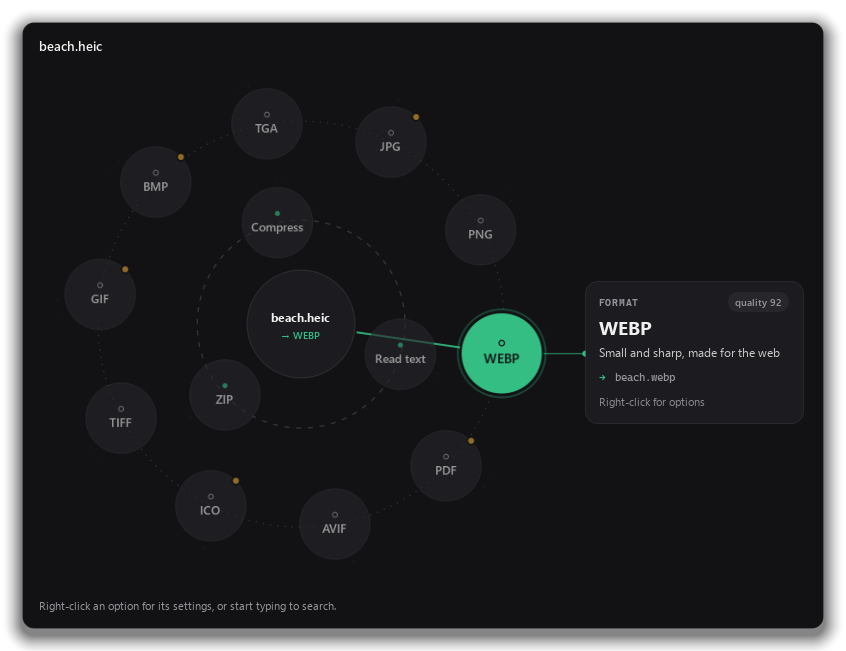
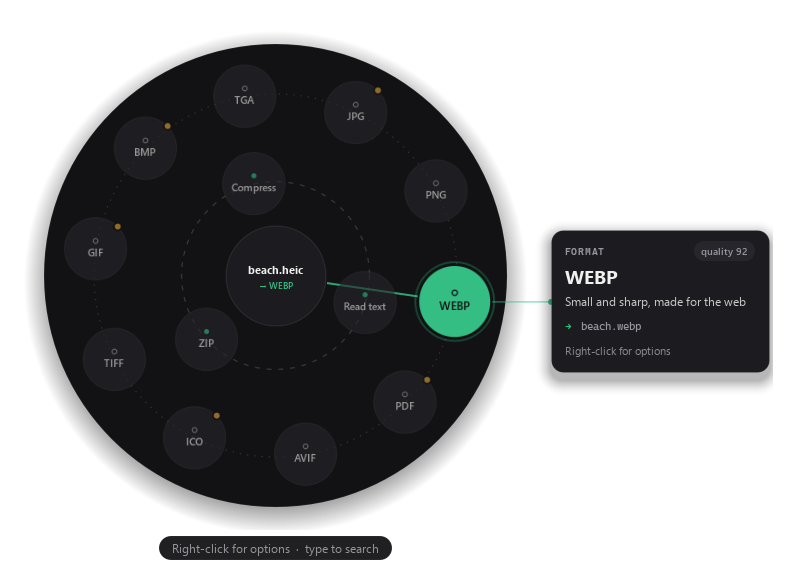
Tapshift 1.2.1: Orbit floats on its own disc
- No more dark box around the picker: on the orbit page the card frame,
  title and hint are hidden; the orbit paints its own round disc with a soft
  shadow and floats over the desktop. The side card (with a smooth shadow)
  appears only while pointing at an option. List and options keep the card.
- ~10% more compact; file name in the hub; notes in a pill under the disc
- All base images drawn on show, before the window is visible: worst frame
  11.7 ms on open, 0% CPU at rest (measured on screen under the 25% cap)

diff --git a/app/ui/orbit.py b/app/ui/orbit.py
@@ -233,16 +233,18 @@ class OrbitView(QWidget):
     DRIFT_SECONDS = 6.0
 
     def __init__(self, offers: list[Offer], center_title: str, card_side: str = "right", scale: float = 1.0,
-                 parent=None):
+                 note: str = "", parent=None):
         super().__init__(parent)
         self.setMouseTracking(True)
         self.setFocusPolicy(Qt.FocusPolicy.StrongFocus)
-        self.setAttribute(Qt.WidgetAttribute.WA_OpaquePaintEvent)  # we paint every pixel: parents can skip
+        # No background: the orbit floats over the desktop on its own disc.
+        self.setAttribute(Qt.WidgetAttribute.WA_TranslucentBackground)
         self.motion = animations_enabled()
         self.center_title = center_title
+        self.note = note or "Right-click for options  ·  type to search"
         self.side = card_side
         k = scale
-        self.D, self.HUB, self.GAP = 72 * k, 108 * k, 14 * k
+        self.D, self.HUB, self.GAP = 64 * k, 100 * k, 12 * k
         self.CARD_W, self.CARD_GAP = round(218 * k + 10 * (1 - k)), round(22 * k)
         self._layout(list(offers))
         self.hover = -1
@@ -254,6 +256,9 @@ class OrbitView(QWidget):
         self.speed = Spring(1.0 if self.motion else 0.0)
         self.ring_a = Spring(0.0)
         self.hub_s = Spring(0.75)
+        self.disc_s = Spring(0.9)
+        self._disc_pix: QPixmap | None = None
+        self._note_pix: QPixmap | None = None
         # side card
         self.card_a, self.card_y, self.card_dx = Spring(0), Spring(0), Spring(0)
         self.card_pix: QPixmap | None = None
@@ -315,10 +320,12 @@ class OrbitView(QWidget):
                 self.ps.append(_Planet(ri, base, 0.03 + order * 0.028))
                 order += 1
         self.hidden_count = len(offers) - sum(1 for o in self.items if o is not None)
-        self.E = self.radii[-1] + D * 0.6 + 16  # orbit half-size, with room for hover scale and the magnet
+        self.DR = self.radii[-1] + D / 2 + 18  # the disc everything sits on
+        self.E = self.DR + 22  # half-size of the orbit area: disc plus room for its shadow
         S = 2 * self.E
+        self.NOTE_H = 34
         self.ox = (self.CARD_W + self.CARD_GAP) if self.side == "left" else 0
-        self.setFixedSize(QSize(int(S + self.CARD_GAP + self.CARD_W) + 4, int(S)))
+        self.setFixedSize(QSize(int(S + self.CARD_GAP + self.CARD_W) + 4, int(S + self.NOTE_H)))
 
     def orbit_center(self) -> QPointF:
         return QPointF(self.ox + self.E, self.E)
@@ -332,6 +339,9 @@ class OrbitView(QWidget):
             self._hub_pix.clear()
             self._cards.clear()
             self._rings_pix = None
+            self._disc_pix = None
+            self._note_pix = None
+            self.__dict__.pop("_card_shadows", None)
         return dpr
 
     def _new_pix(self, w: float, h: float) -> QPixmap:
@@ -456,6 +466,72 @@ class OrbitView(QWidget):
         p.drawText(QPointF(c.x() - fm.horizontalAdvance(sub) / 2, c.y() + 15 * k), sub)
         p.end()
         self._hub_pix[self.hover] = pm
+        return pm
+
+    def _disc_pixmap(self) -> QPixmap:
+        """Soft shadow, the disc and both orbits, drawn once."""
+        if self._disc_pix is not None:
+            return self._disc_pix
+        from PySide6.QtGui import QRadialGradient
+
+        S = 2 * self.E
+        pm = self._new_pix(S, S)
+        p = self._painter(pm)
+        c = QPointF(self.E, self.E)
+        R = self.DR
+        g = QRadialGradient(QPointF(c.x(), c.y() + 7), R + 20)
+        edge = R / (R + 20)
+        g.setColorAt(0.0, _alpha(theme.SHADOW, theme.SHADOW.alphaF() * 0.9))
+        g.setColorAt(edge * 0.94, _alpha(theme.SHADOW, theme.SHADOW.alphaF() * 0.8))
+        g.setColorAt(1.0, _alpha(theme.SHADOW, 0.0))
+        p.setPen(Qt.PenStyle.NoPen)
+        p.setBrush(g)
+        p.drawEllipse(QPointF(c.x(), c.y() + 7), R + 20, R + 20)
+        p.setPen(QPen(theme.LINE, 1.2))
+        p.setBrush(theme.BG)
+        p.drawEllipse(c, R, R)
+        p.drawPixmap(QPointF(0, 0), self._rings_pixmap())
+        p.end()
+        self._disc_pix = pm
+        return pm
+
+    def _card_shadow(self, w: float, h: float) -> QPixmap:
+        """A smooth soft shadow for the side card (many faint layers, drawn once per size)."""
+        key = (round(w), round(h))
+        cache = self.__dict__.setdefault("_card_shadows", {})
+        pm = cache.get(key)
+        if pm is not None:
+            return pm
+        pad = 16
+        pm = self._new_pix(w + 2 * pad, h + 2 * pad)
+        p = self._painter(pm)
+        p.setPen(Qt.PenStyle.NoPen)
+        base = theme.SHADOW.alphaF()
+        for k in range(pad):
+            grow = pad - k
+            p.setBrush(_alpha(theme.SHADOW, base * 0.07 * (k + 1) / pad))
+            p.drawRoundedRect(QRectF(pad - grow, pad - grow, w + 2 * grow, h + 2 * grow), 12 + grow, 12 + grow)
+        p.end()
+        cache[key] = pm
+        return pm
+
+    def _note_pixmap(self) -> QPixmap:
+        if self._note_pix is not None:
+            return self._note_pix
+        f = _font(11.5)
+        fm = QFontMetrics(f)
+        text = fm.elidedText(self.note, Qt.TextElideMode.ElideRight, int(2 * self.E - 40))
+        w, h = fm.horizontalAdvance(text) + 26, 24
+        pm = self._new_pix(w + 2, h + 2)
+        p = self._painter(pm)
+        p.setPen(QPen(theme.LINE, 1))
+        p.setBrush(_alpha(theme.BG, 0.94))
+        p.drawRoundedRect(QRectF(1, 1, w, h), h / 2, h / 2)
+        p.setFont(f)
+        p.setPen(theme.DIM)
+        p.drawText(QRectF(1, 1, w, h), Qt.AlignmentFlag.AlignCenter, text)
+        p.end()
+        self._note_pix = pm
         return pm
 
     def _rings_pixmap(self) -> QPixmap:
@@ -600,6 +676,15 @@ class OrbitView(QWidget):
             p.a.snap(0 if self.motion else 1)
         self.ring_a.snap(0 if self.motion else 1)
         self.hub_s.snap(0.75 if self.motion else 1)
+        self.disc_s.snap(0.9 if self.motion else 1)
+        # Draw the base images now, while the window is still fully transparent, so the
+        # opening animation's frames only copy finished images.
+        self._check_dpr()
+        self._disc_pixmap()
+        self._note_pixmap()
+        self._hub_pixmap()
+        for i in range(len(self.items)):
+            self._planet_pixmap(i, False)
         self._wake()
 
     def hideEvent(self, e):
@@ -632,6 +717,8 @@ class OrbitView(QWidget):
         busy |= self.ring_a.step(dt, 120, 20, m)
         self.hub_s.t = 1.08 if ex else 1.0
         busy |= self.hub_s.step(dt, 220, 16, m)
+        self.disc_s.t = 1.04 if ex else 1.0
+        busy |= self.disc_s.step(dt, 200, 17, m)
         c = self.orbit_center()
         for i, p in enumerate(self.ps):
             if self._t < p.delay and ex is None:
@@ -698,27 +785,25 @@ class OrbitView(QWidget):
     def paintEvent(self, _):
         self._check_dpr()
         p = QPainter(self)
-        p.fillRect(self.rect(), theme.BG)
         p.setRenderHint(QPainter.RenderHint.Antialiasing)
         p.setRenderHint(QPainter.RenderHint.SmoothPixmapTransform)
         c = self.orbit_center()
         ra = max(0.0, min(1.0, self.ring_a.v))
+        # the disc (shadow, fill, edge and both orbits in one cached image)
+        disc = self._disc_pixmap()
+        ds = 2 * self.E * self.disc_s.v
+        p.setOpacity(1.0 if self._exit is None else max(0.0, 1 - self._exit["t"] / self._exit["dur"]))
+        if abs(self.disc_s.v - 1.0) < 1e-3:  # at rest: a plain copy, no rescaling of the big image
+            p.drawPixmap(QPointF(c.x() - self.E, c.y() - self.E), disc)
+        else:
+            p.drawPixmap(QRectF(c.x() - ds / 2, c.y() - ds / 2, ds, ds), disc, QRectF(disc.rect()))
+        # the note under the disc
+        note = self._note_pixmap()
+        nw = note.width() / self._dpr
+        p.setOpacity(ra)
+        p.drawPixmap(QPointF(c.x() - nw / 2, 2 * self.E + self.NOTE_H - note.height() / self._dpr - 2), note)
         if ra > 0.01:
             p.setOpacity(ra)
-            p.drawPixmap(QPointF(c.x() - self.E, c.y() - self.E), self._rings_pixmap())
-            # comet trails show the drift direction; they fade as the orbits stop
-            sp = self.speed.v
-            if sp > 0.02:
-                p.setPen(Qt.PenStyle.NoPen)
-                for i, pl in enumerate(self.ps):
-                    if pl.a.v < 0.05:
-                        continue
-                    direction = 1.0 if pl.ring == 0 and len(self.radii) == 2 else -1.0
-                    rr = pl.r.v + self.D / 2 + 5
-                    for k in range(1, 5):
-                        a = pl.ang + direction * k * 0.05
-                        p.setBrush(_alpha(theme.ACCENT, 0.42 * sp * pl.a.v * (1 - k / 5)))
-                        p.drawEllipse(QPointF(c.x() + math.cos(a) * rr, c.y() + math.sin(a) * rr), 2.2 - k * 0.3, 2.2 - k * 0.3)
             if 0 <= self.hover < len(self.ps):
                 pl = self.ps[self.hover]
                 ang = math.atan2(pl.y - c.y(), pl.x - c.x())
@@ -763,6 +848,8 @@ class OrbitView(QWidget):
             p.setPen(Qt.PenStyle.NoPen)
             p.setBrush(theme.ACCENT)
             p.drawEllipse(QPointF(edge_x, ly), 3, 3)
+            sh = self._card_shadow(cw, ch)
+            p.drawPixmap(QPointF(cx - 16, cy - 16 + 6), sh)
             if self.card_old is not None and self.card_mix < 1:
                 p.setOpacity(ca * (1 - self.card_mix))
                 p.drawPixmap(QPointF(cx, cy), self.card_old)

diff --git a/app/ui/popup.py b/app/ui/popup.py
@@ -574,13 +574,14 @@ class Popup(QWidget):
         lay = QVBoxLayout(card)
         lay.setContentsMargins(16, 14, 16, 12)
         lay.setSpacing(8)
-        head = QLabel(title)
+        head = self._head = QLabel(title)
         head.setObjectName("title")
         head.setText(QFontMetrics(_font(13, QFont.Weight.DemiBold)).elidedText(title, Qt.TextElideMode.ElideMiddle, 300))
         head.setToolTip(title)
         lay.addWidget(head)
+        self._sub = None
         if subtitle:
-            sub = QLabel(subtitle)
+            sub = self._sub = QLabel(subtitle)
             sub.setObjectName("sub")
             sub.setWordWrap(True)
             lay.addWidget(sub)
@@ -590,7 +591,7 @@ class Popup(QWidget):
         screen = QGuiApplication.screenAt(QCursor.pos()) or QGuiApplication.primaryScreen()
         area = screen.availableGeometry()
         side = "left" if QCursor.pos().x() > area.left() + area.width() * 0.6 else "right"
-        self.wheel = self.orbit = OrbitView(offers, center_title, card_side=side)
+        self.wheel = self.orbit = OrbitView(offers, title, card_side=side, note=subtitle)
         wheel_holder = QWidget()
         wl = QHBoxLayout(wheel_holder)
         wl.setContentsMargins(0, 0, 0, 0)
@@ -611,6 +612,9 @@ class Popup(QWidget):
         self.hint.setMinimumHeight(22)
         self.hint.setMaximumWidth(460)
         lay.addWidget(self.hint)
+        self._card_lay = lay
+        self._chrome_on = True
+        self._set_chrome(False)  # the orbit floats on its own; the card frame is for the list and options
         self._default_hint()
 
         self.wheel.activated.connect(self._wheel_activate)
@@ -667,11 +671,29 @@ class Popup(QWidget):
         (self.list_page.search if self._options_return == 1 else self.wheel).setFocus()
         self._fit()
 
+    def _set_chrome(self, on: bool) -> None:
+        """The card frame, title and hint line: shown for the list and options pages,
+        hidden for the orbit, which floats on its own disc."""
+        if on == self._chrome_on:
+            return
+        self._chrome_on = on
+        self._card.setStyleSheet(theme.CARD_QSS if on else
+                                 theme.CARD_QSS + "QFrame#card { background: transparent; border: none; }")
+        for w in (self._head, self._sub, self.hint):
+            if w is not None:
+                w.setVisible(on)
+        if on:
+            self._card_lay.setContentsMargins(16, 14, 16, 12)
+        else:
+            self._card_lay.setContentsMargins(0, 0, 0, 0)
+        self.update()
+
     def _fit(self):
         """Size the window to the page that's showing (the orbit is much wider than
         the list or the options), keeping it centered where it was."""
         center = self.geometry().center()
         current = self.stack.currentIndex()
+        self._set_chrome(current != 0)
         for k in range(self.stack.count()):
             w = self.stack.widget(k)
             pol = QSizePolicy.Policy.Preferred if k == current else QSizePolicy.Policy.Ignored
@@ -711,6 +733,8 @@ class Popup(QWidget):
 
     def paintEvent(self, _):
         """The card's soft shadow, drawn once per size and then reused."""
+        if not self._chrome_on:
+            return  # the orbit draws its own disc and shadow
         r = self._card.geometry()
         key = (r.width(), r.height(), self.devicePixelRatioF())
         if key != self._shadow_key:

diff --git a/app/__init__.py b/app/__init__.py
@@ -1,6 +1,6 @@
 """Tapshift: select files, tap Ctrl + Shift, pick a format. Converted next to the original."""
 
-__version__ = "1.2.0"
+__version__ = "1.2.1"
 
 # Set this to your GitHub repository ("owner/name") before publishing a release.
 GITHUB_REPO = "syedtaj7/TapShift"

diff --git a/CHANGELOG.md b/CHANGELOG.md
@@ -1,5 +1,16 @@
 # Changelog
 
+## 1.2.1
+
+### Orbit, floating
+- **No more box:** the picker floats over your files on its own round disc with a soft shadow, instead of
+  sitting inside a large dark rectangle. The side card appears next to it only while you point at something.
+- **Smaller:** about 10% more compact, so it covers less of your window.
+- The file name now shows in the centre, and notes (like files left out of a mixed selection) sit under
+  the disc.
+- Smoother opening: everything is drawn before the first frame (worst frame 11.7 ms, under the 16.7 ms
+  that 60 fps allows).
+
 ## 1.2.0
 
 ### Orbit: a new picker
